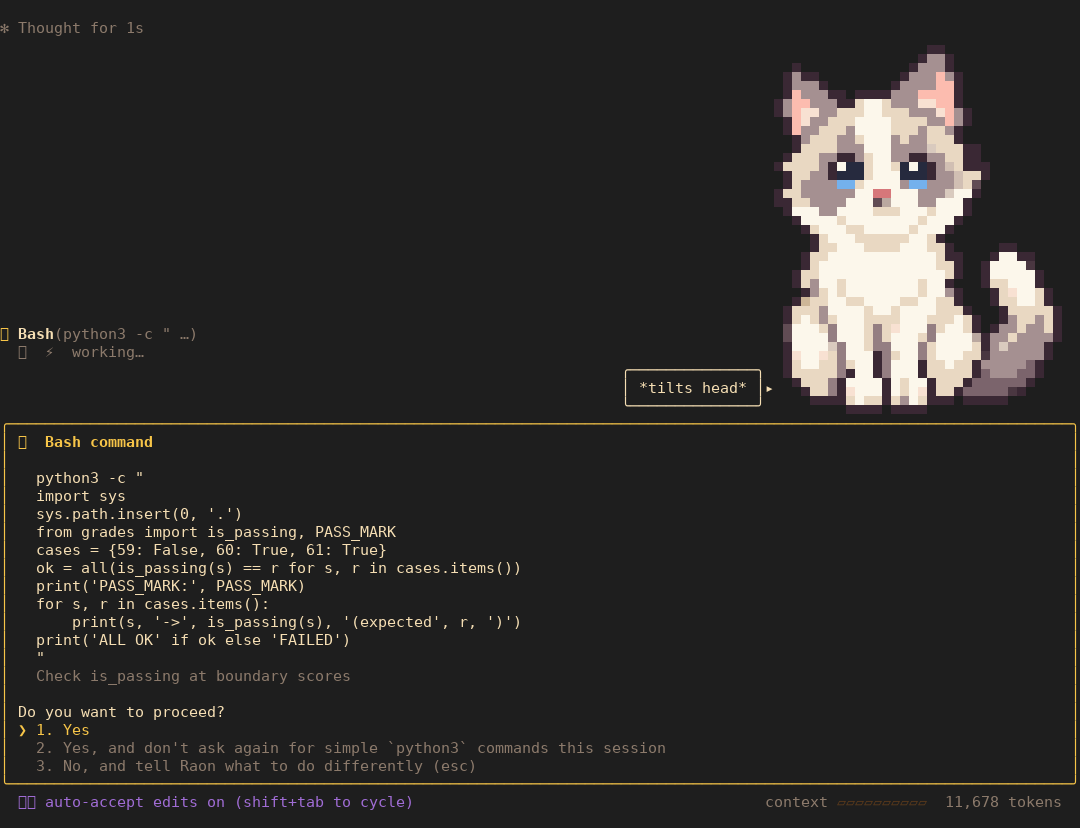
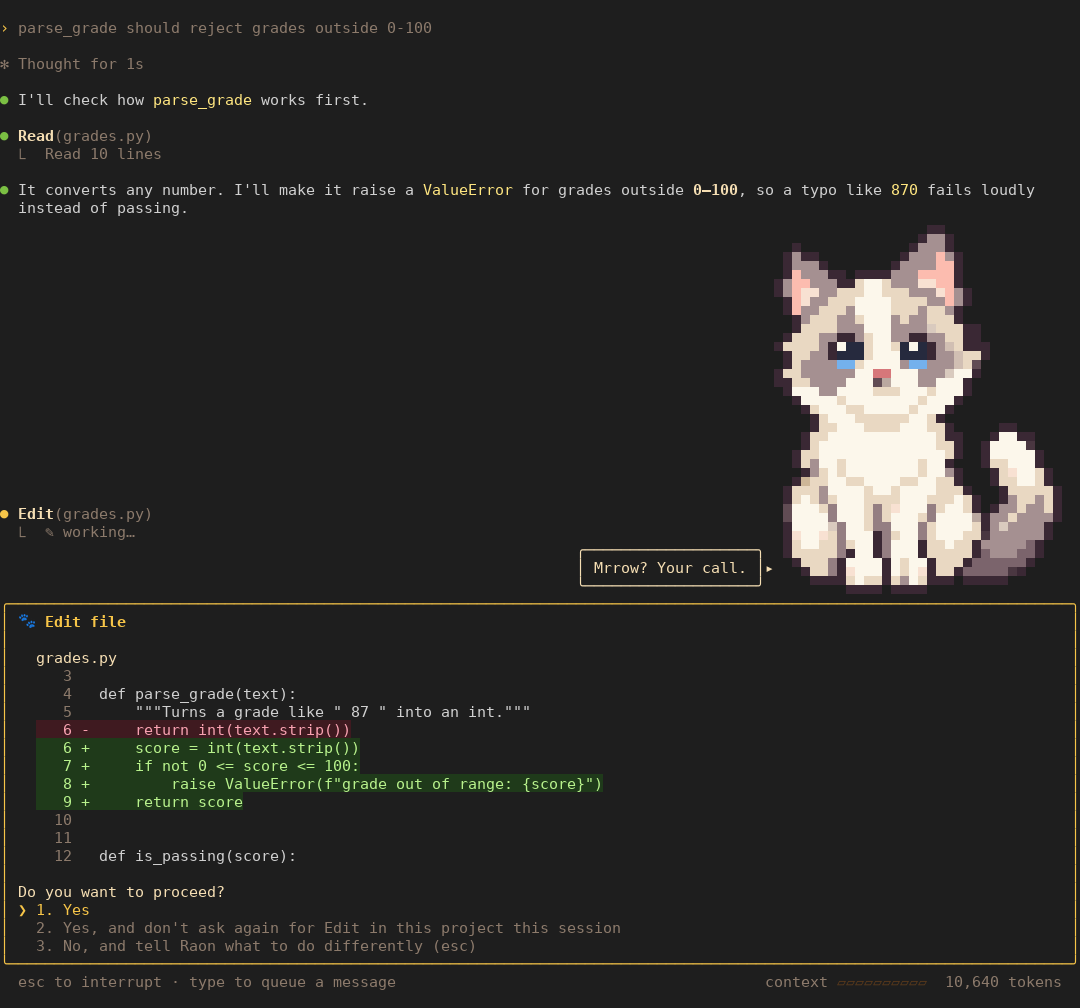
Smoke test: run the app as interactive on CI runners; new session screenshot

diff --git a/test/tui.py b/test/tui.py
@@ -24,6 +24,9 @@ pid, fd = pty.fork()
 if pid == 0:
     os.chdir(sys.argv[1])
     os.environ.update(TERM='xterm-256color', COLUMNS=str(COLS), LINES=str(ROWS), FORCE_COLOR='3')
+    # This is an interactive terminal even on a CI runner: with CI set, Ink prints only the final frame.
+    for k in ('CI', 'CONTINUOUS_INTEGRATION'):
+        os.environ.pop(k, None)
     if os.environ.get('ZOI_TEST_HOME'):
         # Keep test runs from touching the real ~/.zoicode.
         os.makedirs(os.environ['ZOI_TEST_HOME'], exist_ok=True)

diff --git a/README.md b/README.md
@@ -19,7 +19,7 @@ to `~/.zoicode/.env`. You can also set `RAON_API_KEY` instead.
 Maximize your terminal first: the opening scene needs 116×42. On macOS, iTerm2, Ghostty or WezTerm
 show the colors best.
 
-<p align="center"><img src="docs/session.png" alt="Zoi Code asking before it runs a command, with the cat above the prompt" width="75%"></p>
+<p align="center"><img src="docs/session.png" alt="Zoi Code showing an edit for approval, with the cat above the prompt" width="75%"></p>
 
 ## Use
 
